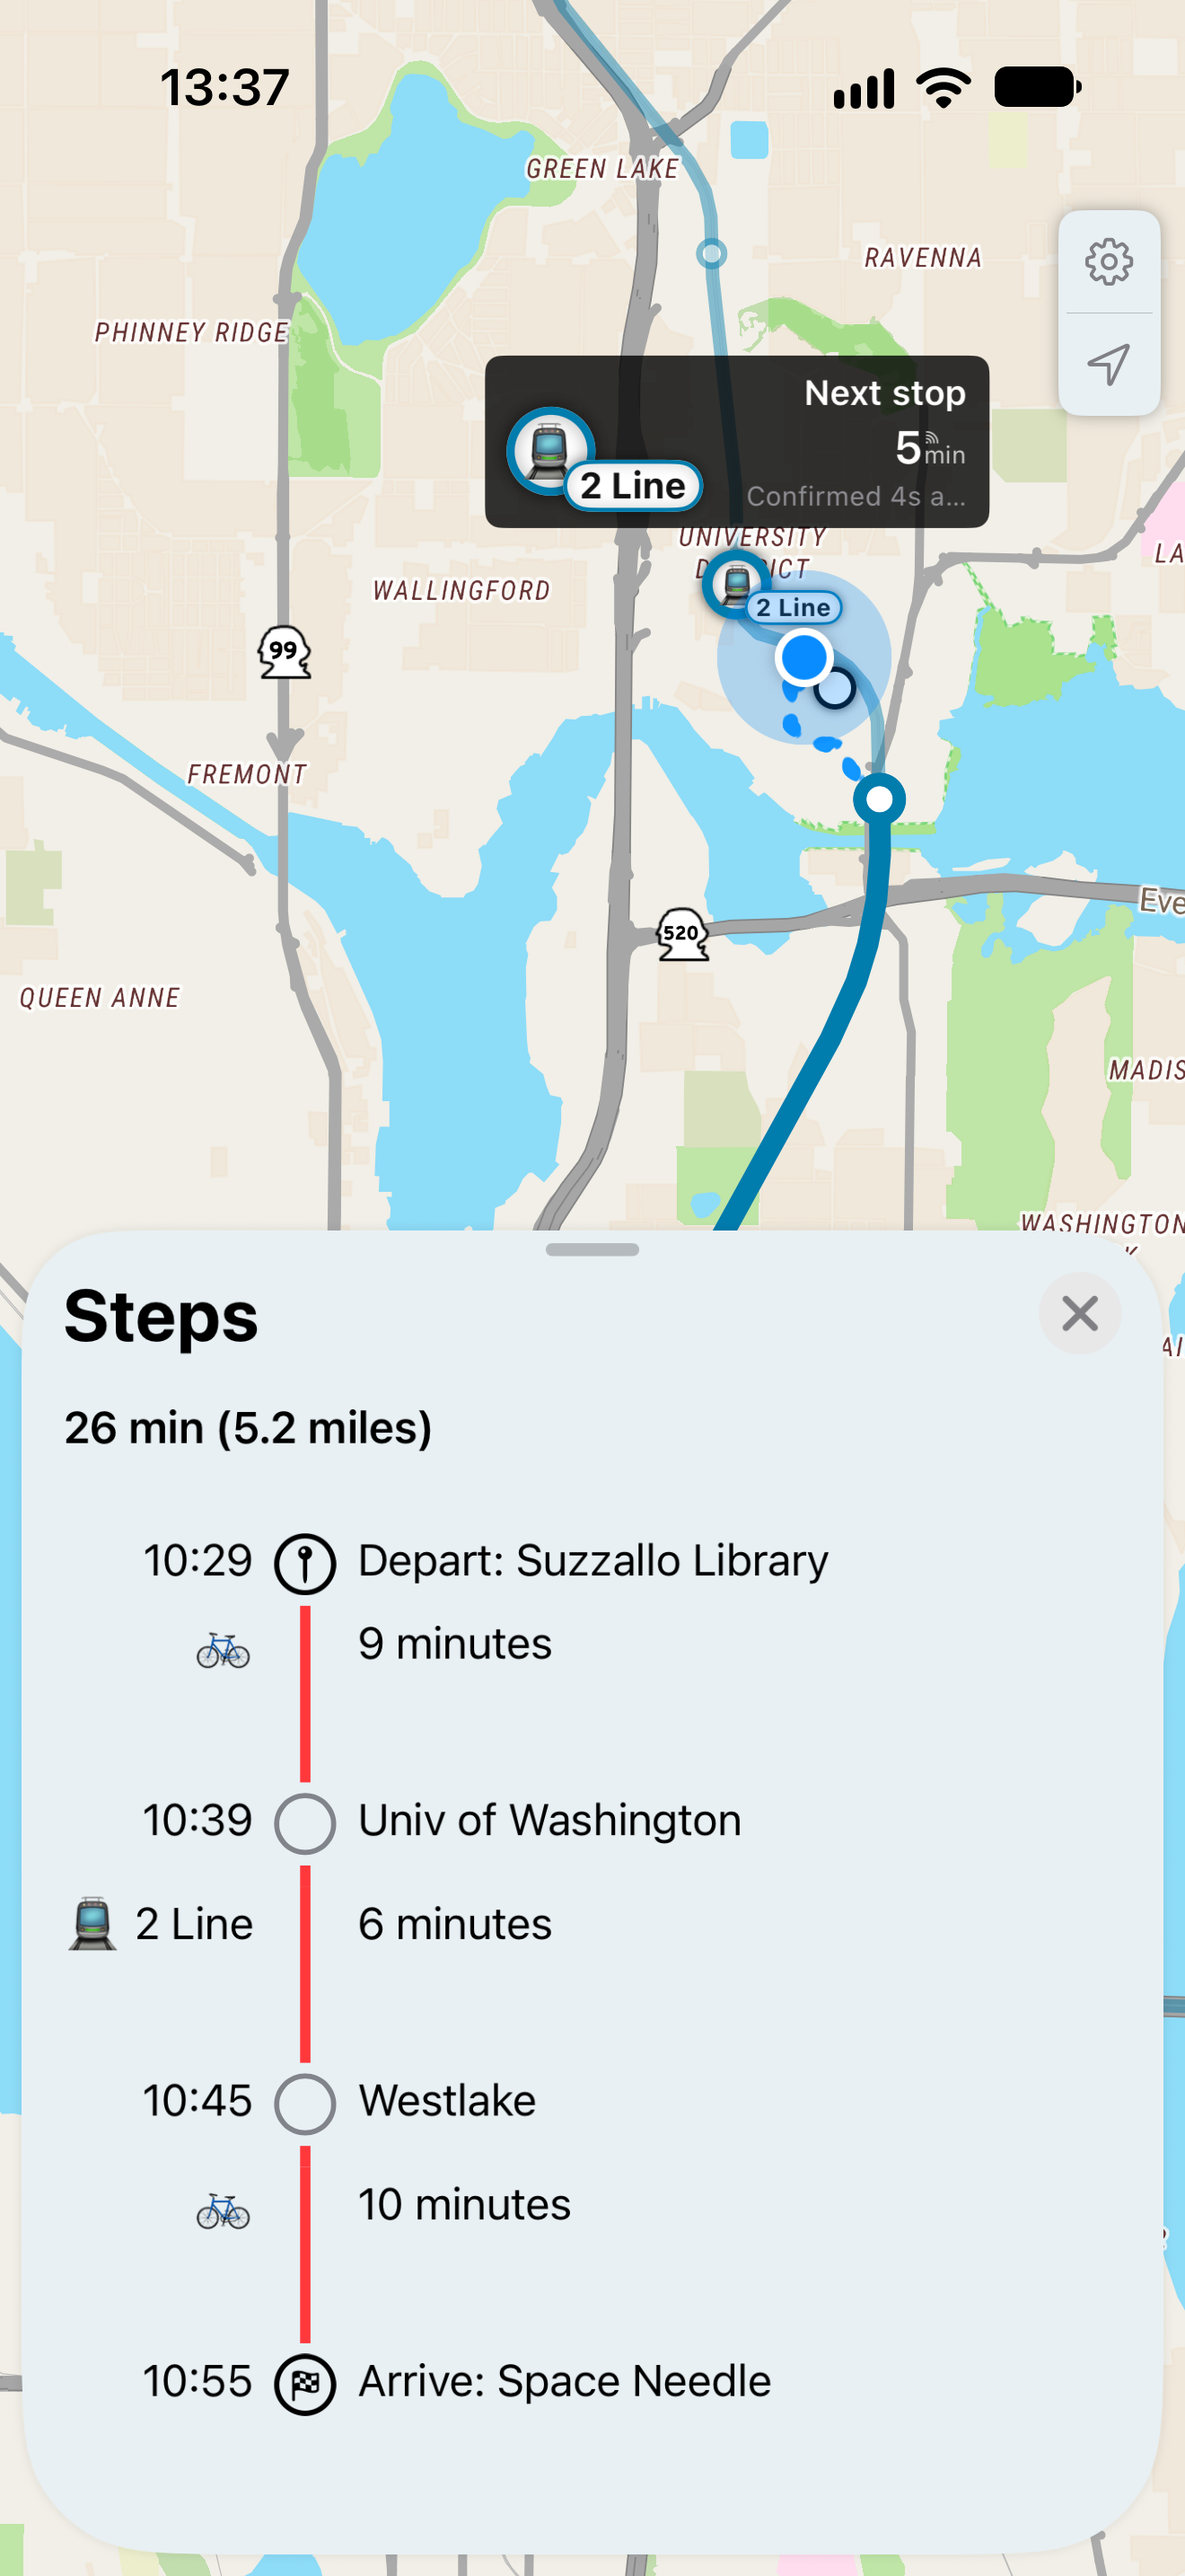
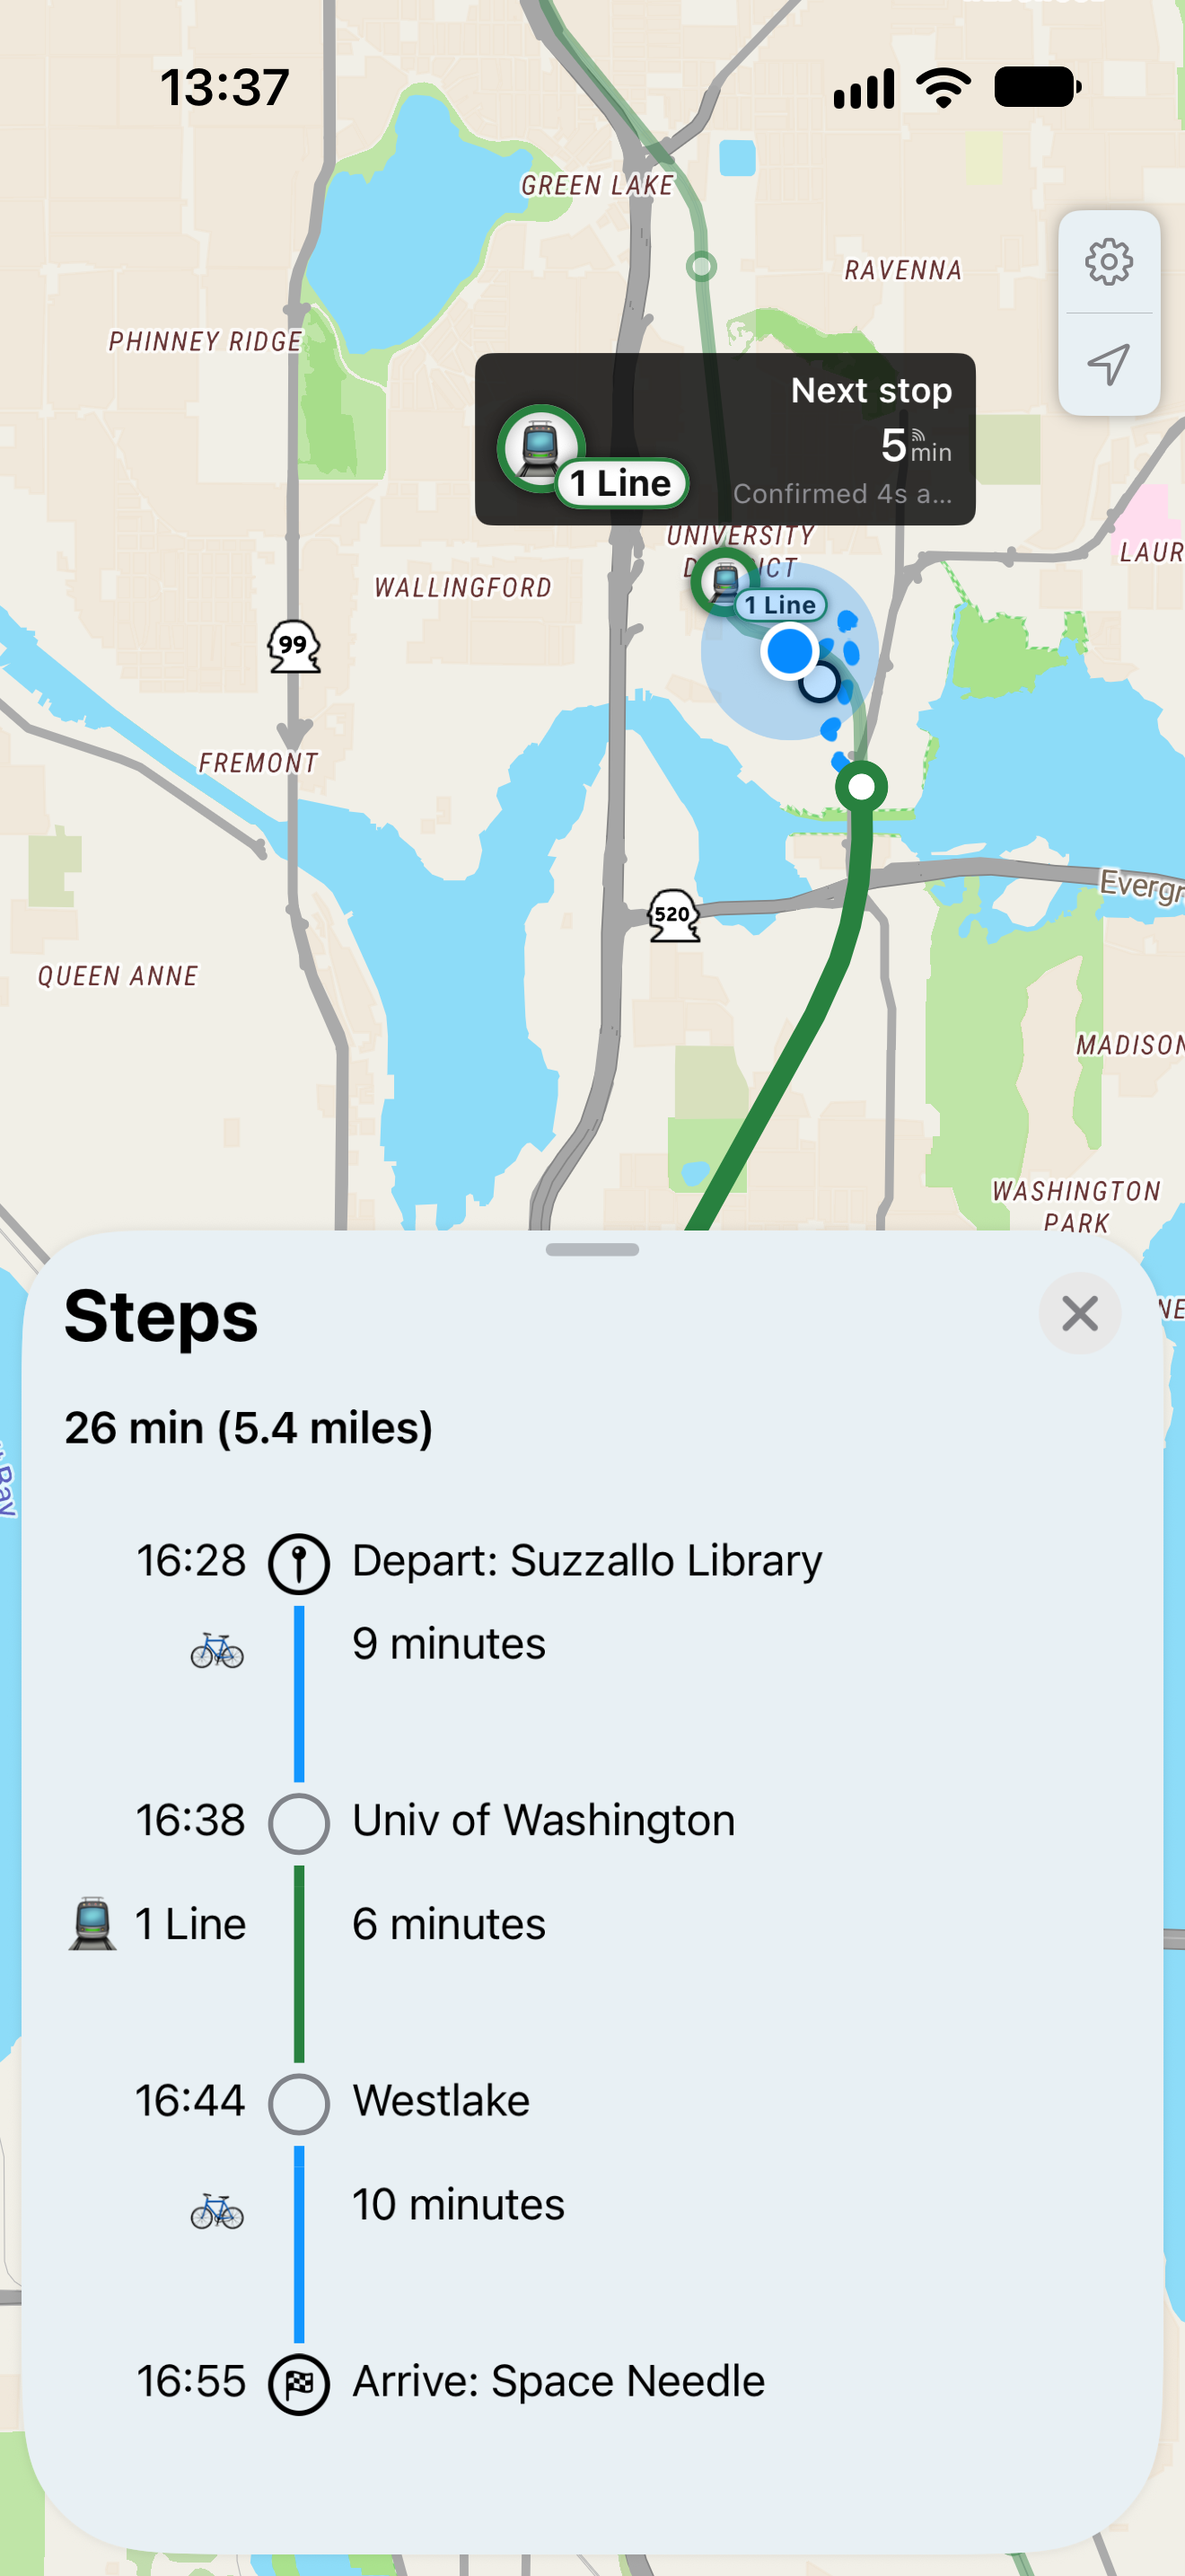
screenshots

diff --git a/maps.earthUITests/ScreenshotTests.swift b/maps.earthUITests/ScreenshotTests.swift
@@ -29,12 +29,8 @@ final class ScreenshotTests: XCTestCase {
     XCTAssert(app.staticTexts["Favorites"].waitForExistence(timeout: 30))
     app.buttons.matching(NSPredicate(format: "label CONTAINS[c] 'location'")).firstMatch.tap()
     sleep(4)
-    // Locating centers the user above the sheet at a regional zoom; zoom into the neighborhood.
-    let userLocation = app.coordinate(withNormalizedOffset: CGVector(dx: 0.5, dy: 0.281))
-    for _ in 0..<8 {
-      userLocation.doubleTap()
-      sleep(1)
-    }
+    // Locating centers the user above the sheet; zoom in a level to show the campus.
+    app.coordinate(withNormalizedOffset: CGVector(dx: 0.5, dy: 0.281)).doubleTap()
     try snapshot("01-home")
 
     XCUIDevice.shared.system.open(URL(string: "mapsearth:///place/\(Self.spaceNeedle)")!)
